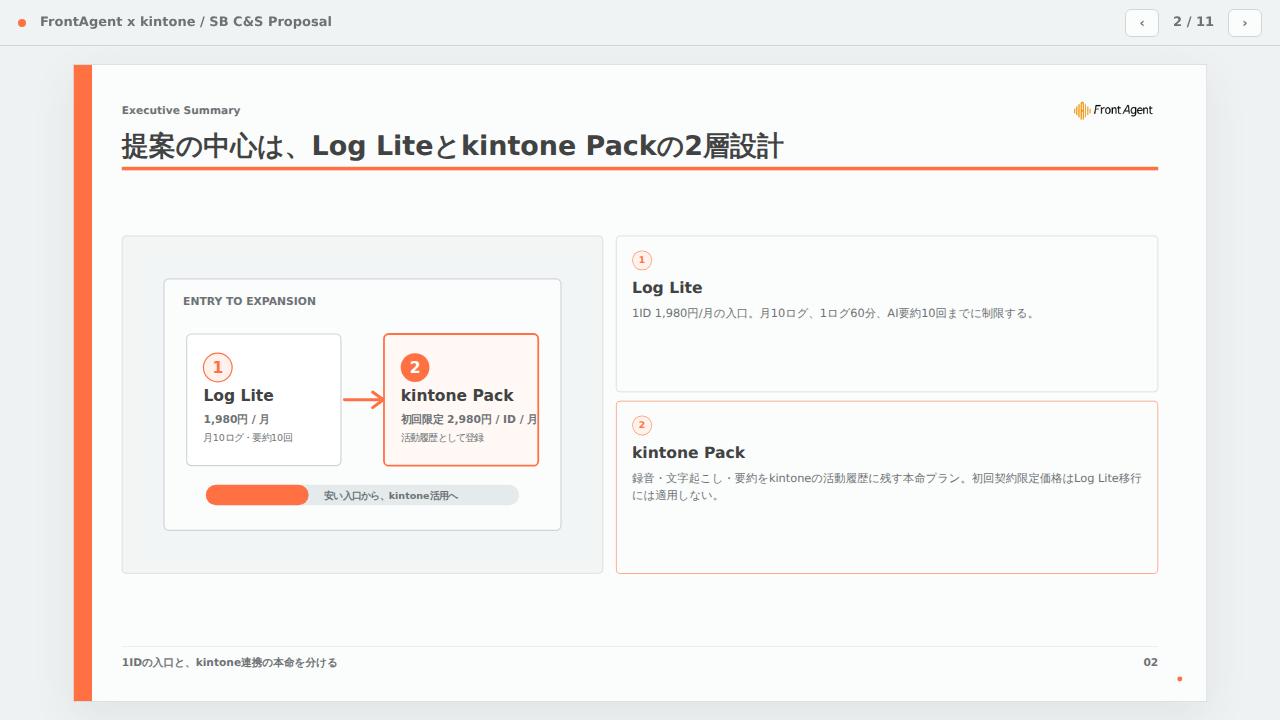
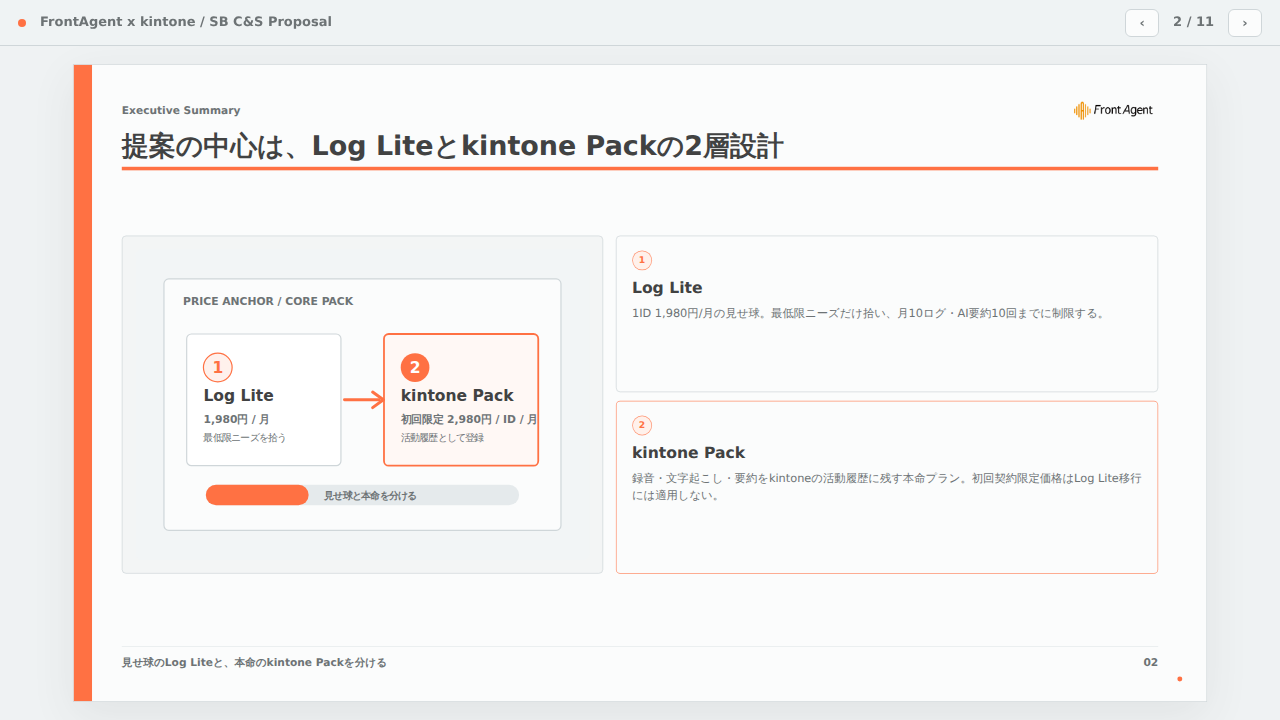
docs: reposition log lite as price anchor

diff --git a/deck-system/decks/umee-sbcs-kintone-plan/index.html b/deck-system/decks/umee-sbcs-kintone-plan/index.html
@@ -632,7 +632,7 @@
             <div class="accent-rule"></div>
           </div>
           <aside class="cover-panel">
-            <img src="assets/visuals/cover-system.svg" alt="Log Liteからkintone Pack、有償支援へ進む商品構成">
+            <img src="assets/visuals/cover-system.svg" alt="Log Liteを見せ球、kintone Packを本命に分ける商品構成">
             <span>作成日</span>
             <strong>2026.05.26</strong>
             <span>論点</span>
@@ -654,13 +654,13 @@
           <h2>提案の中心は、Log Liteとkintone Packの2層設計</h2>
           <div class="body-slot visual-led">
             <div class="image-frame contain">
-              <img src="assets/visuals/plan-layers.svg" alt="Log Liteからkintone Packへ展開する2層設計">
+              <img src="assets/visuals/plan-layers.svg" alt="Log Liteを価格アンカー、kintone Packを本命にする2層設計">
             </div>
             <div class="summary-stack">
               <article class="card">
                 <span class="number">1</span>
                 <strong>Log Lite</strong>
-                <p>1ID 1,980円/月の入口。月10ログ、1ログ60分、AI要約10回までに制限する。</p>
+                <p>1ID 1,980円/月の見せ球。最低限ニーズだけ拾い、月10ログ・AI要約10回までに制限する。</p>
               </article>
               <article class="card feature">
                 <span class="number">2</span>
@@ -671,7 +671,7 @@
           </div>
         </div>
         <footer class="slide-footer">
-          <span>1IDの入口と、kintone連携の本命を分ける</span>
+          <span>見せ球のLog Liteと、本命のkintone Packを分ける</span>
           <span>02</span>
         </footer>
       </section>
@@ -724,12 +724,12 @@
           <img class="header-logo" src="assets/frontagent.png" alt="FrontAgent">
         </header>
         <div class="content">
-          <h2>安く見せる入口と、連携価値を出す商品を分ける</h2>
+          <h2>見せ球と本命を分け、価格感度と連携価値を両立する</h2>
           <div class="body-slot grid-4">
             <article class="card">
               <span class="number">1</span>
-              <strong>1,980円入口</strong>
-              <p>Log Liteは1ID 1,980円/月。月10ログ・AI要約10回までに制限する。</p>
+              <strong>見せ球</strong>
+              <p>Log Liteは1ID 1,980円/月。最低限ニーズだけ拾い、比較時の価格アンカーにする。</p>
             </article>
             <article class="card feature">
               <span class="number">2</span>
@@ -774,7 +774,7 @@
               <tbody>
                 <tr>
                   <td><strong>Log Lite</strong></td>
-                  <td>1IDで始める低価格入口<br><span class="small-note">1,980円 / 1ID / 月</span></td>
+                  <td>最低限ニーズを拾う見せ球<br><span class="small-note">1,980円 / 1ID / 月</span></td>
                   <td>録音、文字起こし、AI要約<br><span class="small-note">月10ログ・1ログ60分・要約10回まで。kintone連携なし。</span></td>
                   <td>パートナー限定。月契約可。ヘルプページ中心。</td>
                 </tr>
@@ -789,7 +789,7 @@
           </div>
         </div>
         <footer class="slide-footer">
-          <span>Log Liteで低価格入口を作り、kintone Packで連携価値を売る</span>
+          <span>Log Liteは価格アンカー、本命はkintone Packで売る</span>
           <span>05</span>
         </footer>
       </section>
@@ -808,7 +808,7 @@
                   <span class="cap-mark">ID</span>
                   <div>
                     <strong>1ID 1,980円/月</strong>
-                    <p>パートナー限定の低価格入口。kintone連携は含めず、利用量で境界を作る。</p>
+                    <p>パートナー限定の見せ球。kintone連携は含めず、最低限ニーズだけ拾う。</p>
                   </div>
                 </article>
                 <article class="cap-card">
@@ -829,7 +829,7 @@
                   <span class="cap-mark">+</span>
                   <div>
                     <strong>追加10ログ 1,980円</strong>
-                    <p>高頻度利用や連携利用は、kintone Packへ自然に誘導する。</p>
+                    <p>高頻度利用や連携利用は、本命のkintone Packとして切り分ける。</p>
                   </div>
                 </article>
               </div>
@@ -845,7 +845,7 @@
           </div>
         </div>
         <footer class="slide-footer">
-          <span>1,980円は月10ログ・AI要約10回までの入口価格</span>
+          <span>1,980円は月10ログ・AI要約10回までの見せ球価格</span>
           <span>06</span>
         </footer>
       </section>
@@ -1004,7 +1004,7 @@
                   <td><strong>AI議事録</strong></td>
                   <td>Notta 1,185円 / 月から<br>Rimo 1,650円 / 月から<br>AI議事録取れる君 5,500円 / 月から<br>LINE WORKS AiNote 法人 19,800円 / 月から</td>
                   <td>議事録単体に見えると、5,980円 / IDは高く見える。</td>
-                  <td>初回契約限定2,980円/IDを入口にし、議事録ではなく顧客接点データ化として売る。</td>
+                  <td>初回契約限定2,980円/IDを価格アンカーにし、議事録ではなく顧客接点データ化として売る。</td>
                 </tr>
               </tbody>
             </table>
@@ -1069,16 +1069,16 @@
           <img class="header-logo" src="assets/frontagent.png" alt="FrontAgent">
         </header>
         <div class="content">
-          <h2>SB C&Sには、安く始められるkintone活用入口として売る</h2>
+          <h2>SB C&Sには、見せ球と本命を分けて売る</h2>
           <div class="body-slot visual-led">
             <div class="image-frame contain">
-              <img src="assets/visuals/gtm-route.svg" alt="Log Liteからkintone Pack、有償支援へ展開する販売ルート">
+              <img src="assets/visuals/gtm-route.svg" alt="Log Liteを見せ球、kintone Packを本命、有償支援を別枠にする販売ルート">
             </div>
             <div class="summary-stack">
               <article class="card">
                 <span class="number">1</span>
                 <strong>Log Lite</strong>
-                <p>パートナー限定の1,980円入口。月10ログ・AI要約10回まで。</p>
+                <p>パートナー限定の1,980円/月プラン。最低限ニーズを拾う見せ球として、月10ログ・AI要約10回まで。</p>
               </article>
               <article class="card feature">
                 <span class="number">2</span>
@@ -1094,7 +1094,7 @@
           </div>
         </div>
         <footer class="slide-footer">
-          <span>議事録ツールではなく、kintoneに顧客接点データを残す入口として売る</span>
+          <span>Log Liteで価格感度を受け、本命はkintoneに顧客接点データを残すPackとして売る</span>
           <span>11</span>
         </footer>
       </section>

diff --git a/deck-system/decks/umee-sbcs-kintone-plan/slide-plan.md b/deck-system/decks/umee-sbcs-kintone-plan/slide-plan.md
@@ -3,13 +3,13 @@
 | ID | Section | Pattern | One-message Headline | Slide Body | Visual Need |
 |---|---|---|---|---|---|
 | P01 | Intro | Cover | FrontAgent x kintone を、SB C&Sが売りやすい料金体系にする | kintoneセットプラン提案 / 料金設計とGTM | FrontAgent logo, orange rule |
-| P02 | Executive Summary | Visual + Cards | 提案の中心は、Log Liteとkintone Packの2層設計 | Log Liteは1,980円の利用量制限入口 / kintone Packは1IDから使える連携プラン | Plan layer visual + two plan cards |
+| P02 | Executive Summary | Visual + Cards | 提案の中心は、Log Liteとkintone Packの2層設計 | Log Liteは最低限ニーズを拾う見せ球 / kintone Packは1IDから使える本命連携プラン | Plan layer visual + two plan cards |
 | P03 | Market Context | Table | kintone利用者の価格感覚は、1000円台から始まる | kintone本体、kintone連携サービス、AI議事録の価格アンカー | Evidence table |
-| P04 | Design Policy | Four Cards | 安く見せる入口と、連携価値を出す商品を分ける | 1,980円入口 / 1ID連携 / ID積み上げ / 個別支援は別料金 | Four principles |
+| P04 | Design Policy | Four Cards | 見せ球と本命を分け、価格感度と連携価値を両立する | 見せ球 / 1ID連携 / ID積み上げ / 個別支援は別料金 | Four principles |
 | P05 | Plan Matrix | Table | 2つのプランで、価格感度とkintone連携を分ける | Log Lite / kintone Pack / 主な機能 / 契約条件 | Plan comparison |
 | P06 | Log Lite | Benchmark Table + Visual | Log Liteは、1,980円に月10ログ・要約10回を組み込む | 月10ログ / 1ログ60分 / AI要約10回 / 追加10ログ1,980円 | Usage cap visual + benchmark table |
 | P07 | kintone Pack Price | Table | kintone Packは、1IDから必要数だけ積み上げる | 通常5,980円/ID、初回契約限定2,980円/ID、初期費用0円、12ヶ月契約、Log Lite移行は対象外 | Price table |
 | P08 | ID Pricing | Table + Visual | 1IDから始め、2ID目以降も同じ単価で積み上げる | 1ID / 3ID / 5ID / 10IDの価格例 | Price ladder visual + calculation table |
 | P09 | Competitive Comparison | Table | 比較される相手は、3カテゴリに分かれる | kintone本体 / PrintCreator・Smart at AI / Notta・Rimo・AI議事録取れる君・LINE WORKS AiNote | Competitor positioning table |
 | P10 | Support Boundary | Table | 標準機能と個別支援を分け、本体価格を安く見せる | 標準機能 / 標準サポート / 有償支援 / 対象外 | Support boundary table |
-| P11 | GTM | Visual + Cards | SB C&Sには、安く始められるkintone活用入口として売る | Log Lite -> kintone Pack -> 有償支援 | GTM route visual + cards |
+| P11 | GTM | Visual + Cards | SB C&Sには、見せ球と本命を分けて売る | Log Liteは価格アンカー / kintone Packが本命 / 有償支援は別枠 | GTM positioning visual + cards |

diff --git a/deck-system/decks/umee-sbcs-kintone-plan/brief.md b/deck-system/decks/umee-sbcs-kintone-plan/brief.md
@@ -14,7 +14,7 @@ SB C&S向けに、FrontAgent x kintone の販売プランを提案する。
 
 - SB C&S向けに、kintone利用企業へ売りやすい商品階層として提示する
 - Log Liteとkintone Packの価格、利用上限、支援範囲を説明する
-- 他社比較を踏まえ、初見で高く見えない価格設計として見せる
+- Log Liteを最低限ニーズの受け皿兼価格アンカー、kintone Packを本命として見せる
 
 ## Source
 
@@ -38,7 +38,7 @@ SB C&S向けに、FrontAgent x kintone の販売プランを提案する。
 ## Assumptions
 
 - 価格は税抜案
-- Log Liteは1,980円/月の利用量制限案
+- Log Liteは1,980円/月の利用量制限案。安い入口ではなく、最低限ニーズを拾う見せ球として扱う
 - Log Liteの初期案は月10ログ、1ログ60分、AI要約10回まで
 - kintone Packも1IDから契約可能
 - kintone Packの初回契約限定価格は、初回のkintone Pack契約時のみ適用する

diff --git a/deck-system/decks/umee-sbcs-kintone-plan/quality-audit.md b/deck-system/decks/umee-sbcs-kintone-plan/quality-audit.md
@@ -23,6 +23,7 @@ Result: no overflow failures.
 
 - `exports/cover-1280x720.png`
 - `exports/summary-1280x720.png`
+- `exports/policy-1280x720.png`
 - `exports/matrix-1280x720.png`
 - `exports/loglite-1280x720.png`
 - `exports/kintone-price-1280x720.png`
